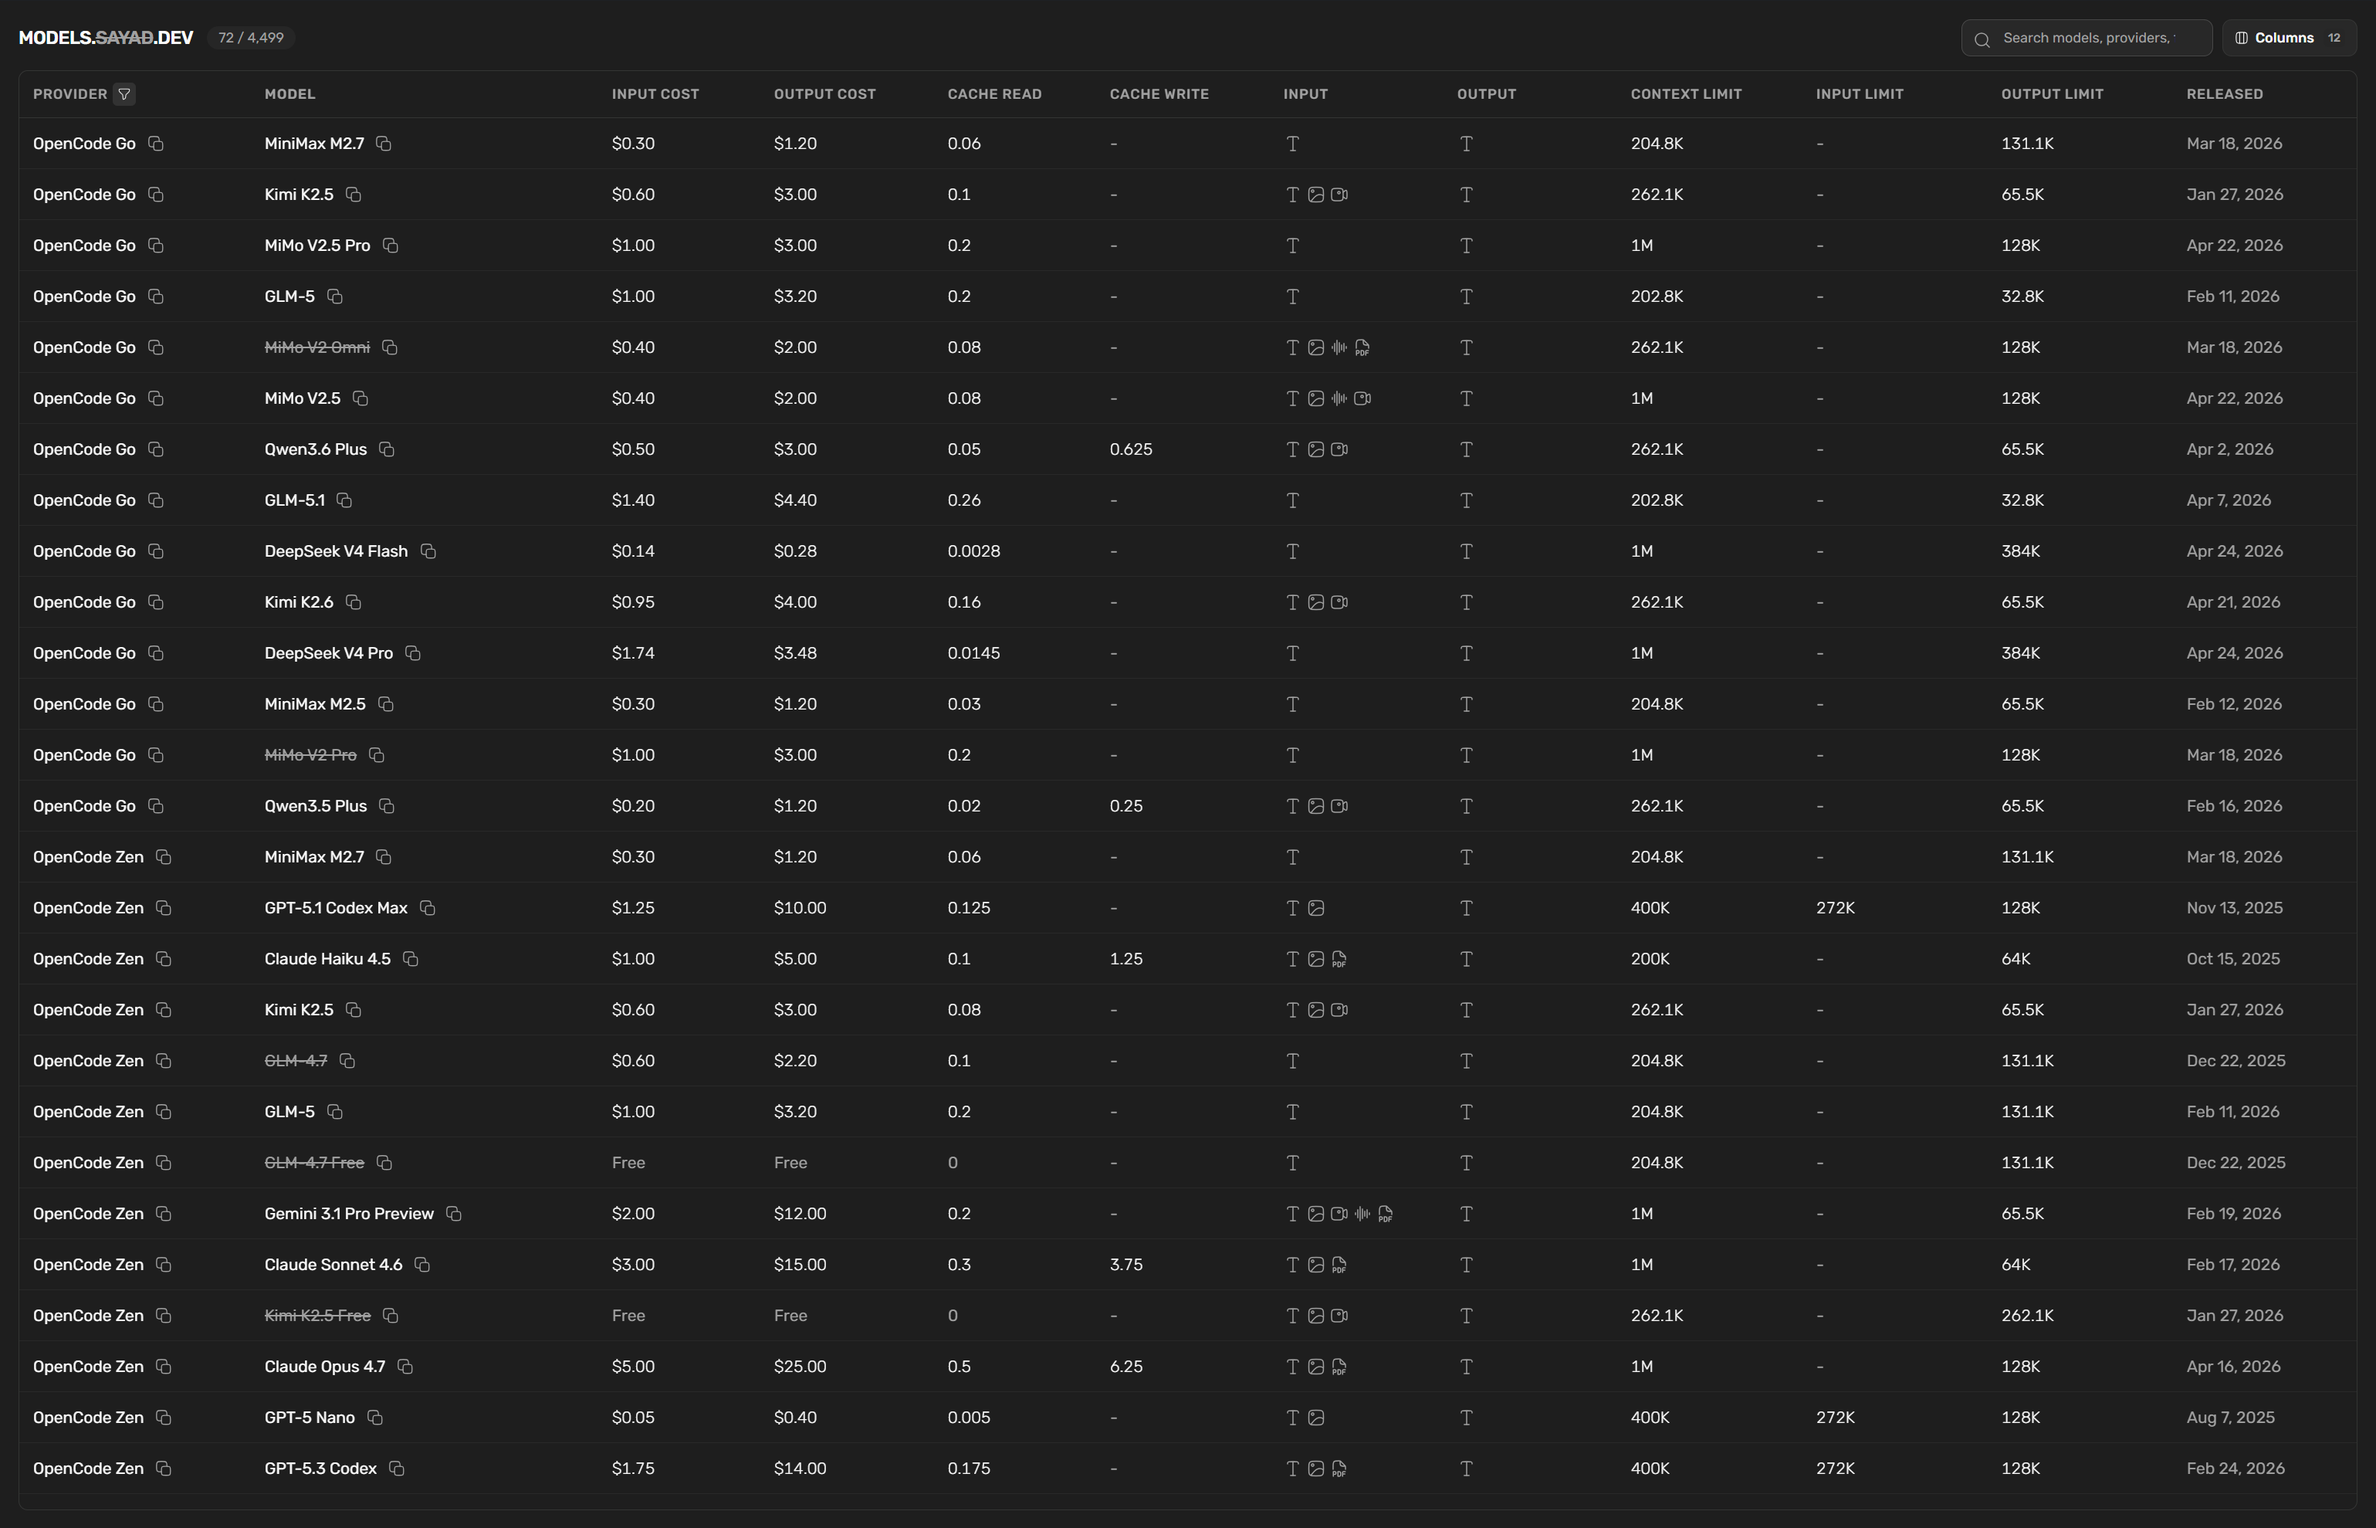
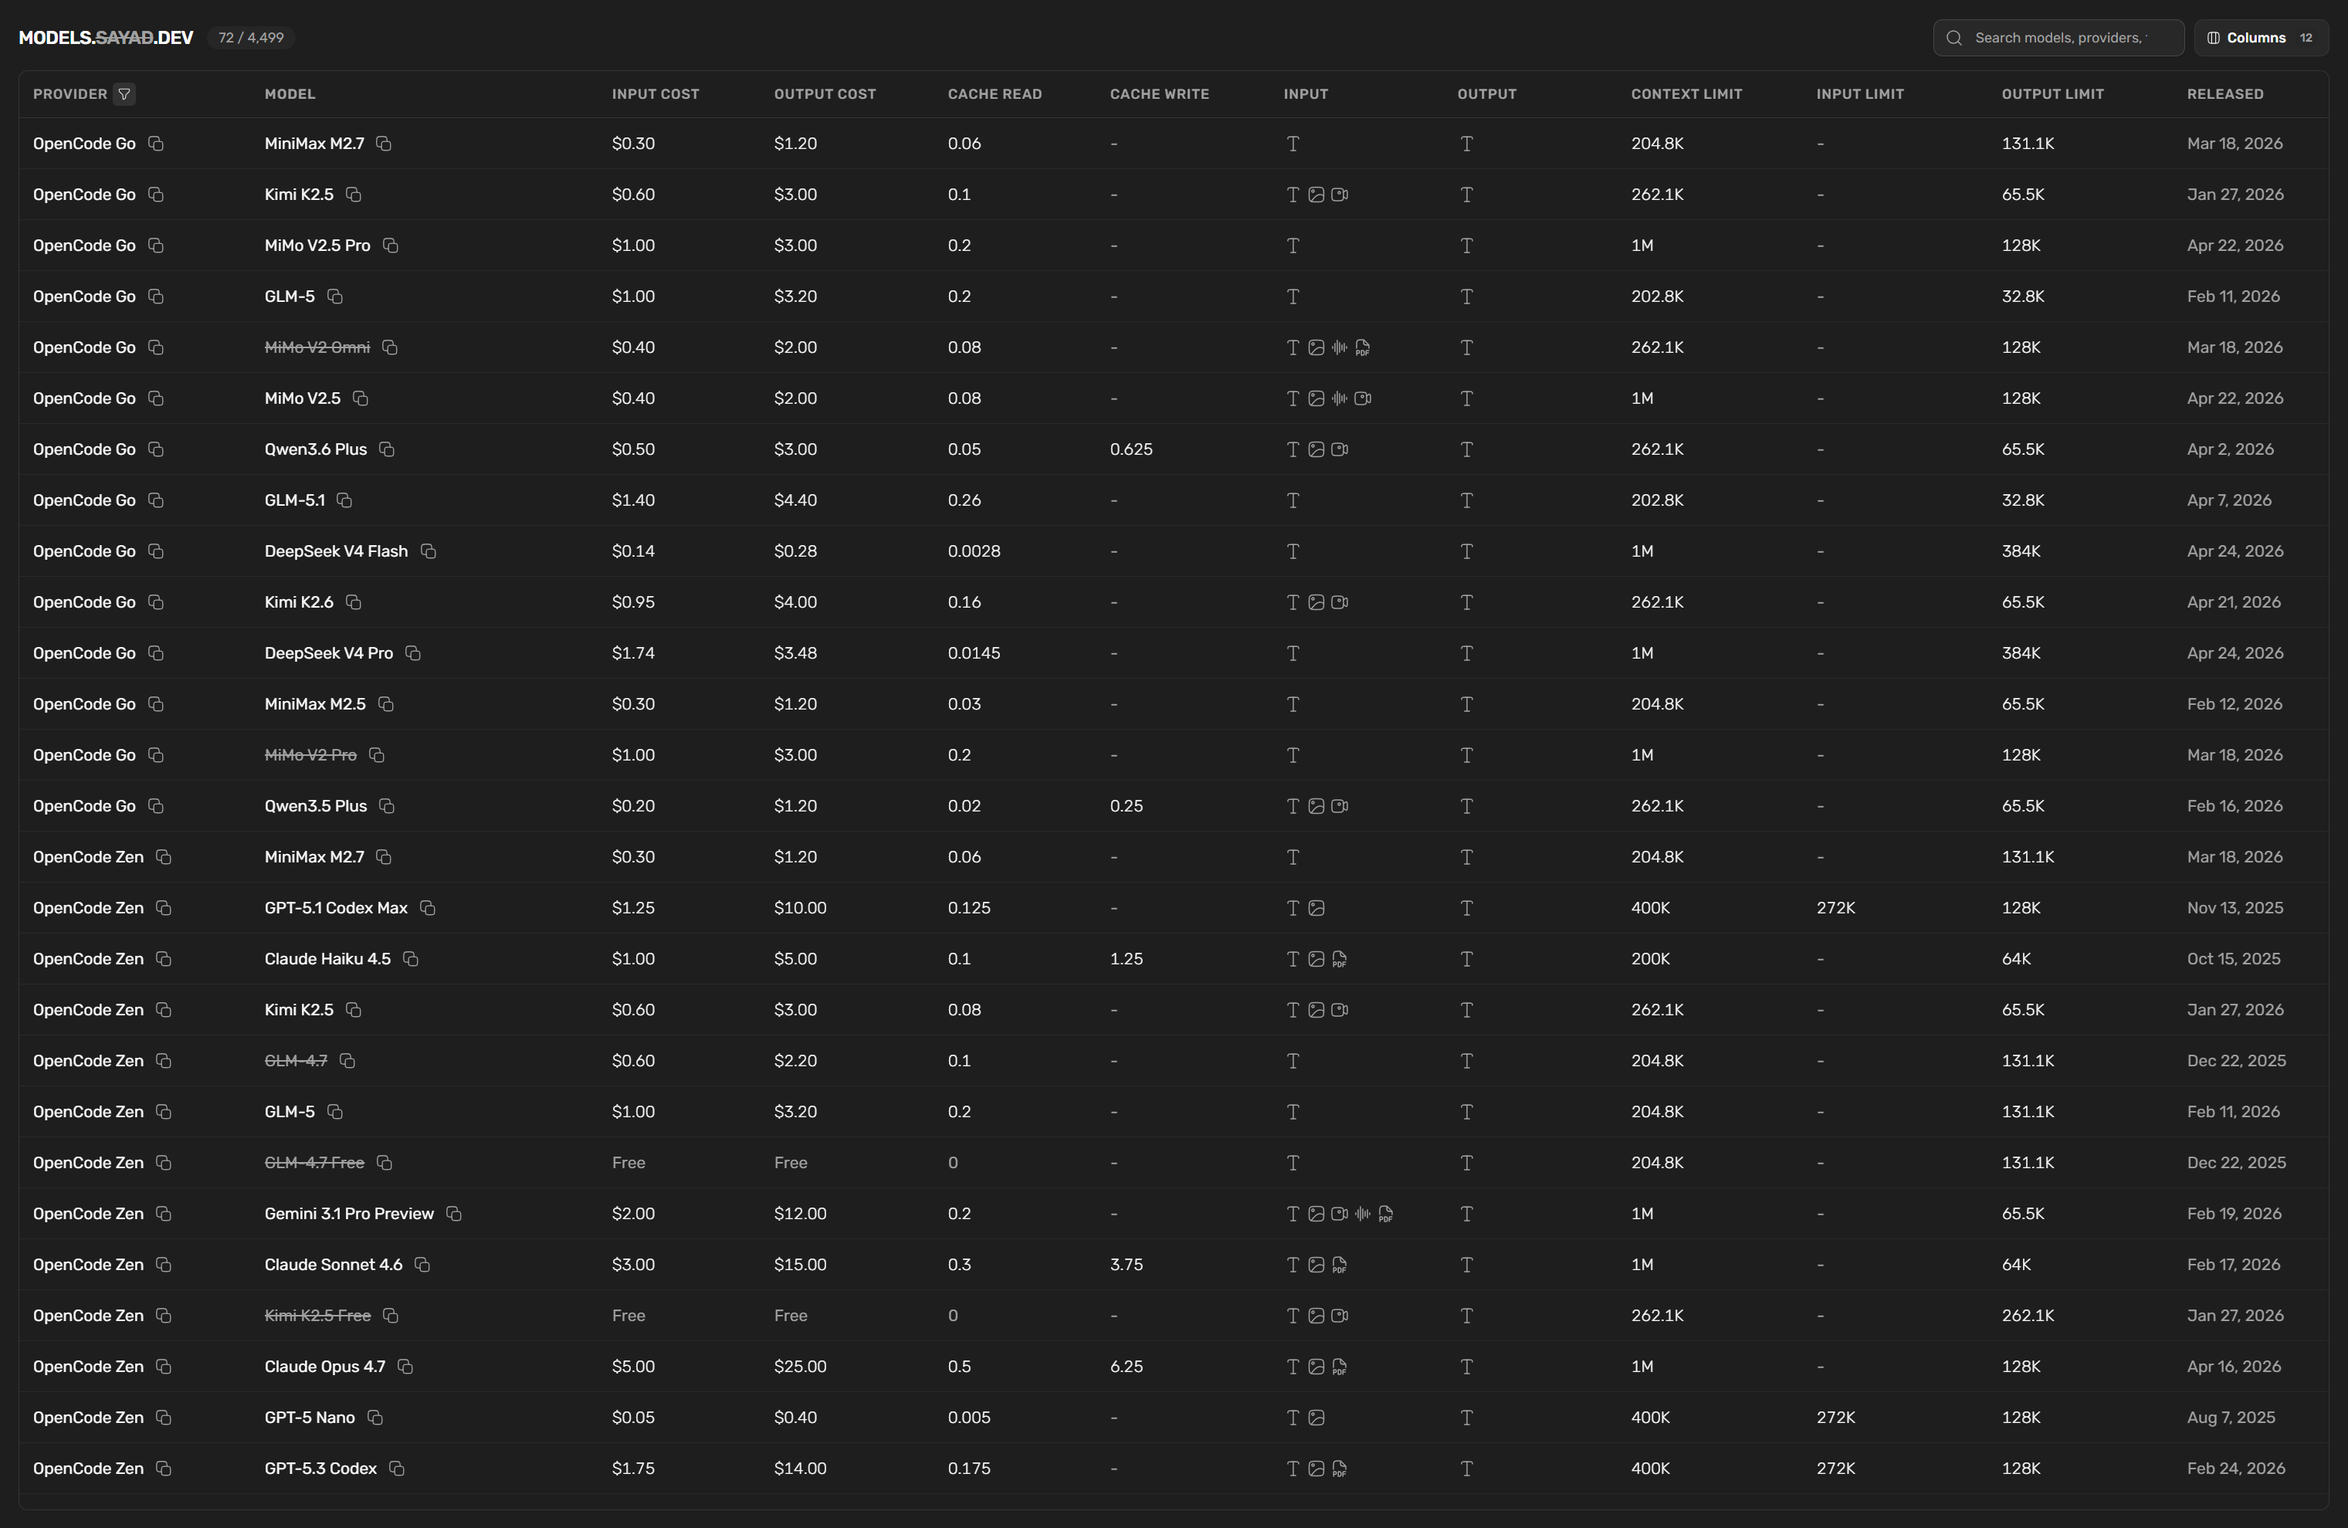
feat: update layout and environment configuration
- Added client environment variable for NEXT_PUBLIC_APP_URL to dynamically set image URLs in metadata.
- Updated icon and Open Graph image URLs in layout.tsx to use the new environment variable.
- Added env.ts file to define and validate environment variables using zod.
- Updated og-image.png to a new version.

diff --git a/src/app/layout.tsx b/src/app/layout.tsx
@@ -1,6 +1,7 @@
 import '@/styles/index.css'
 import '@/styles/theme.css'
 
+import { clientEnv } from '@/env'
 import { cn } from '@/lib/utils'
 import { Metadata } from 'next'
 import { ThemeProvider } from 'next-themes'
@@ -18,14 +19,14 @@ export const metadata: Metadata = {
   description:
     'Browse AI models from providers around the world from models.dev in a beautiful, fast UI',
   icons: {
-    icon: '/logo/logo-64.png',
+    icon: `${clientEnv.NEXT_PUBLIC_APP_URL}/logo/logo-32.png`,
   },
   openGraph: {
-    images: [{ url: '/og-image.png' }],
+    images: [{ url: `${clientEnv.NEXT_PUBLIC_APP_URL}/og-image.png` }],
   },
   twitter: {
     card: 'summary_large_image',
-    images: ['/og-image.png'],
+    images: [`${clientEnv.NEXT_PUBLIC_APP_URL}/og-image.png`],
   },
 }
 

diff --git a/src/env.ts b/src/env.ts
@@ -1,0 +1,9 @@
+import z from 'zod'
+
+const envSchema = z.object({
+  NEXT_PUBLIC_APP_URL: z.url(),
+})
+
+export const clientEnv = envSchema.parse({
+  NEXT_PUBLIC_APP_URL: process.env.NEXT_PUBLIC_APP_URL,
+})
